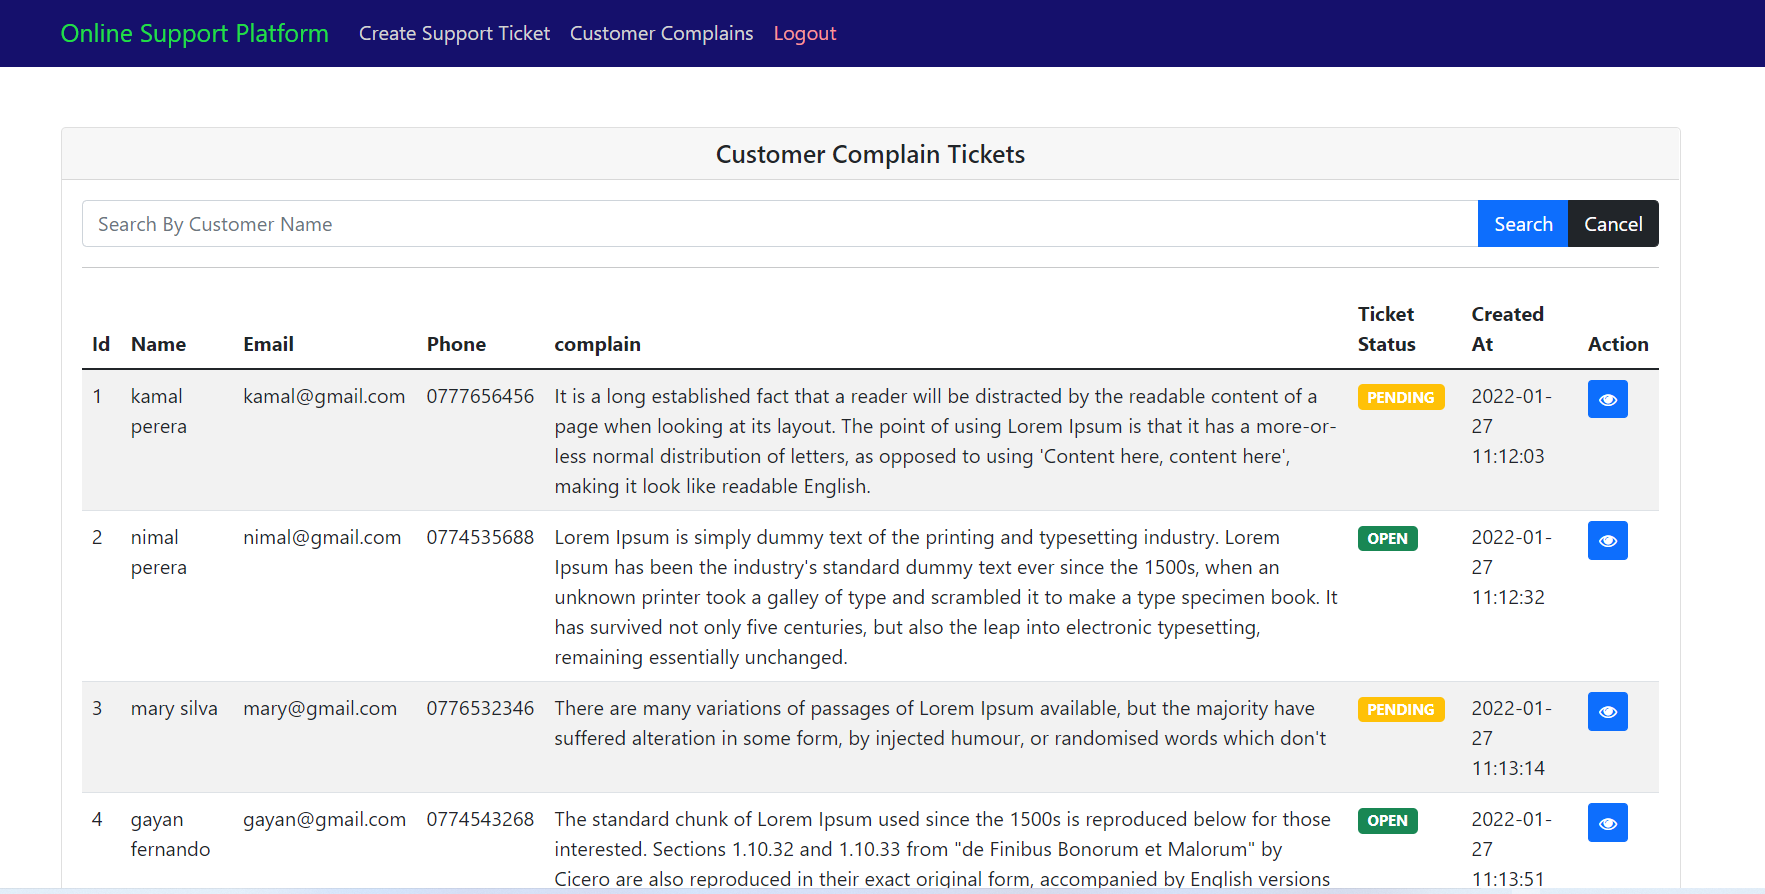
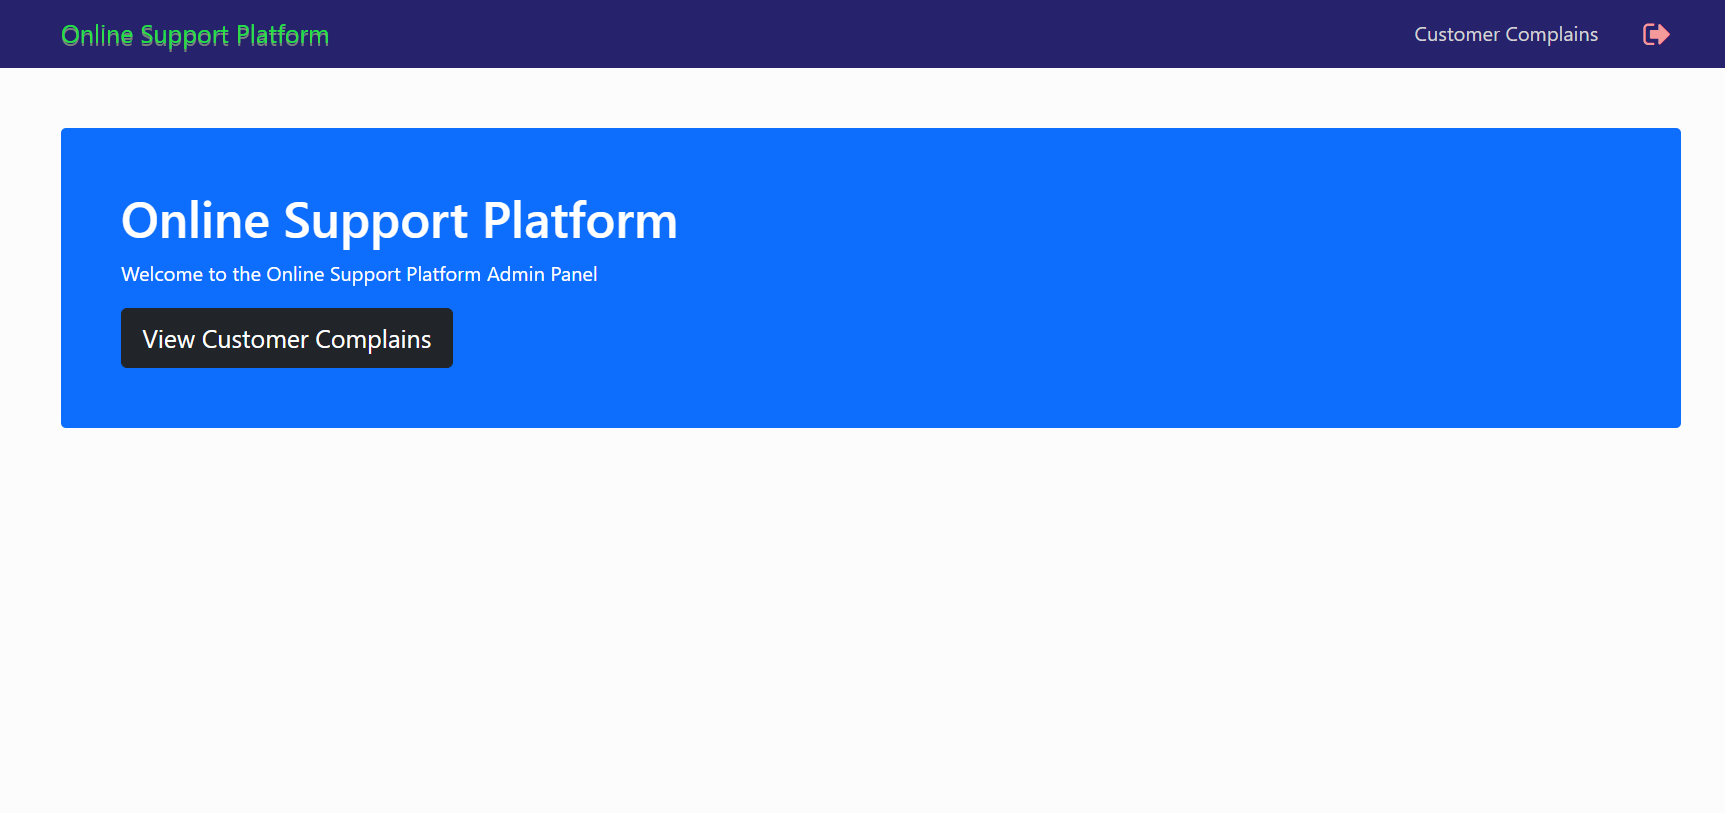
assignment

diff --git a/public/css/style.css b/public/css/style.css
@@ -48,3 +48,9 @@ nav.navbar.navbar-light {
     text-transform: UPPERCASE;
     font-size: 14px;
 }
+
+.notes {
+    font-size: 12px;
+    margin-top: 5px;
+    color: #747474;
+}

diff --git a/resources/views/complain_status.blade.php b/resources/views/complain_status.blade.php
@@ -6,8 +6,28 @@
             <div class="row justify-content-center">
                 <div class="col-md-6">
                     <div class="card">
-                            <h3 class="card-header text-center">Customer Complain Information</h3>
+                            <h3 class="card-header text-center">Check Complain Feedback</h3>
                             <div class="card-body">
+
+                                @if(empty($resDta) && $isSearch)
+
+                                    <div class="alert alert-danger" role="alert">
+                                        Result not found. Invalid key
+                                    </div>
+
+                                @endif
+
+                                <form action="{{ route('customer-complains-status') }}" method="GET">
+                                    <div class="input-group">
+                                        <input type="text" class="form-control" placeholder="Enter your complain key" name="q">
+                                        <button class="btn btn-primary" type="submit">Search</button>
+                                        <button class="btn btn-dark" onClick="location.href='{{ route('customer-complains-status') }}'" type="button">Cancel</button>
+                                    </div>
+                                </form>
+
+                                <hr />
+
+                                @if(isset($resDta) && !empty($resDta) && $isSearch)
 
                                 <table class="table table-striped">
                                     <thead>
@@ -28,11 +48,7 @@
                                             <td>{{ $resDta->customer_phone }}</td>
                                         </tr>
                                         <tr>
-                                            <th>Key</th>
-                                            <td>{{ $resDta->customer_key }}</td>
-                                        </tr>
-                                        <tr>
-                                            <th valign="top">Complain</th>
+                                            <th>complain</th>
                                             <td>{{ $resDta->customer_problem }}</td>
                                         </tr>
                                         <tr>
@@ -49,35 +65,14 @@
                                             <th>Created At</th>
                                             <td>{{ $resDta->created_at }}</td>
                                         </tr>
-                                        <tr>
-                                            <th colspan="2">
 
-                                                <form action="{{ route('customer-comment', $resDta->id) }}" method="POST">
-                                                    @csrf
-                                                    <div class="form-group mb-3">
-                                                        <textarea placeholder="Add comment here...." id="problem" class="form-control" name="agent_comment"></textarea>
-                                                        <div class="notes">Max 400 digits long</div>
-                                                        @if ($errors->has('agent_comment'))
-                                                            <span class="text-danger">{{ $errors->first('agent_comment') }}</span>
-                                                        @endif
-                                                    </div>
-
-                                                    <div class="d-grid mx-auto">
-                                                        <div class="btn-group special" role="group" aria-label="...">
-                                                            <a href="/complain" class="btn btn-dark m-2 btn-block">Back</a>
-                                                            <button type="submit" class="btn btn-success m-2 btn-block">Add Comment</button>
-                                                        </div>
-                                                    </div>
-
-                                                </form>
-
-                                            </th>
-                                        </tr>
                                     </thead>
                                     <tbody>
 
                                     </tbody>
                                 </table>
+
+                                @endif
 
                             </div>
                         </div>

diff --git a/resources/views/complain.blade.php b/resources/views/complain.blade.php
@@ -12,7 +12,7 @@
                                     <div class="input-group">
                                         <input type="text" class="form-control" placeholder="Search By Customer Name" name="q">
                                         <button class="btn btn-primary" type="submit">Search</button>
-                                        <button class="btn btn-dark" onClick="location.href='/complain'" type="button">Cancel</button>
+                                        <button class="btn btn-dark" onClick="location.href='{{ route('customer-complains') }}'" type="button">Cancel</button>
                                     </div>
                                 </form>
                                 <hr />
@@ -24,7 +24,7 @@
                                         <th>Name</th>
                                         <th>Email</th>
                                         <th>Phone</th>
-                                        <th>complain</th>
+                                        <th>Key</th>
                                         <th>Ticket Status</th>
                                         <th>Created At</th>
                                         <th>Action</th>
@@ -37,7 +37,7 @@
                                                 <td>{{ $dta->customer_name }}</td>
                                                 <td>{{ $dta->customer_email }}</td>
                                                 <td>{{ $dta->customer_phone }}</td>
-                                                <td width="280">{{ $dta->customer_problem }}</td>
+                                                <td>{{ $dta->customer_key }}</td>
                                                 <td align="center">
                                                     @if( $dta->status == "PENDING")
                                                     <span class="badge bg-warning">{{ $dta->status }}</span>
@@ -46,7 +46,7 @@
                                                     @endif
                                                 </td>
                                                 <td>{{ $dta->created_at }}</td>
-                                                <td>
+                                                <td align="center">
                                                     <a href="/customer/{{ $dta->id }}/complain" ><button data-bs-toggle="popover" data-bs-placement="left" data-bs-trigger="hover" data-bs-content="View Complain" class="btn btn-sm btn-primary"><i class="fa fa-eye"></i></button></a>
                                                 </td>
                                             </tr>

diff --git a/resources/views/ticket.blade.php b/resources/views/ticket.blade.php
@@ -4,7 +4,7 @@
     <main class="signup-form">
         <div class="container">
             <div class="row justify-content-center">
-                <div class="col-md-4">
+                <div class="col-md-5">
                     <div class="card">
                         <h3 class="card-header text-center">Support Ticket</h3>
                         <div class="card-body">
@@ -23,6 +23,7 @@
                                     @csrf
                                     <div class="form-group mb-3">
                                         <input type="text" placeholder="Full Name" id="name" class="form-control" name="customer_name">
+                                        <div class="notes">Max 20 digits long</div>
                                         @if ($errors->has('customer_name'))
                                             <span class="text-danger">{{ $errors->first('customer_name') }}</span>
                                         @endif
@@ -37,6 +38,7 @@
 
                                     <div class="form-group mb-3">
                                         <input type="text" placeholder="Phone Number" id="phone" class="form-control" name="customer_phone">
+                                        <div class="notes">10 digits mobile number</div>
                                         @if ($errors->has('customer_phone'))
                                             <span class="text-danger">{{ $errors->first('customer_phone') }}</span>
                                         @endif
@@ -44,6 +46,7 @@
 
                                     <div class="form-group mb-3">
                                         <textarea placeholder="Your Problem Description" id="problem" class="form-control" name="customer_problem"></textarea>
+                                        <div class="notes">Max 400 digits long</div>
                                         @if ($errors->has('customer_problem'))
                                             <span class="text-danger">{{ $errors->first('customer_problem') }}</span>
                                         @endif

diff --git a/resources/views/dashboard.blade.php b/resources/views/dashboard.blade.php
@@ -23,12 +23,16 @@
 
                 @if(!session()->exists('token-key'))
                     <li class="nav-item">
-                        <a class="nav-link" href="{{ route('login') }}">Agent Login</a>
-                    </li>
-                @endif
-                    <li class="nav-item">
                         <a class="nav-link" href="{{ route('ticket') }}">Create Support Ticket</a>
                     </li>
+                    <li class="nav-item">
+                        <a class="nav-link" href="{{ route('customer-complains-status') }}">Complain Feedback</a>
+                    </li>
+                    <li class="nav-item">
+                        <a data-bs-toggle="popover" data-bs-placement="bottom" data-bs-trigger="hover" data-bs-content="Agent Login" style="color: #b1f59a!important;" class="nav-link logout" href="{{ route('login') }}"><i class="fa fa-sign-in" aria-hidden="true"></i></a>
+                    </li>
+                @endif
+
                 @if(session()->exists('token-key'))
                     <li class="nav-item">
                         <a class="nav-link" href="{{ route('customer-complains') }}">Customer Complains</a>
@@ -50,6 +54,7 @@
             <div class="mt-4 p-5 bg-primary text-white rounded">
                 <h1>Online Support Platform</h1>
                 <p>Welcome to the Online Support Platform Admin Panel</p>
+                <a href="{{ route('customer-complains') }}" class="btn btn-dark btn-lg">View Customer Complains</a>
             </div>
         </div>
     </div>

diff --git a/app/Repository/Mysql/OnlineSupportPlatformRepository.php b/app/Repository/Mysql/OnlineSupportPlatformRepository.php
@@ -27,6 +27,7 @@ class OnlineSupportPlatformRepository implements OnlineSupportPlatformRepository
             $tickets->customer_email = $reqData['customer_email'];
             $tickets->customer_phone = $reqData['customer_phone'];
             $tickets->customer_problem = $reqData['customer_problem'];
+            $tickets->customer_key = "COM-OSP-".time();
             $tickets->created_at = Carbon::now()->format('Y-m-d H:i:s');
 
             return $tickets->save();
@@ -52,6 +53,28 @@ class OnlineSupportPlatformRepository implements OnlineSupportPlatformRepository
                    $query->where('customer_name', 'like', '%' . $keyword . '%');
                 }
              return $query->paginate(20);
+
+        }catch (\Exception $ex) {
+            Log::error("Error in query: ", (array)$ex);
+            throw $ex;
+        }
+    }
+
+    /**
+     * @param $keyword
+     * @return \Illuminate\Contracts\Pagination\LengthAwarePaginator|mixed
+     * @throws \Exception
+     */
+    public function complainStatus($keyword)
+    {
+        try{
+
+            $query = DB::table(Tickets::TABLE)
+                ->select('*');
+            if(!empty($keyword)){
+                $query->where('customer_key', '=', trim($keyword));
+            }
+            return $query->get()->first();
 
         }catch (\Exception $ex) {
             Log::error("Error in query: ", (array)$ex);

diff --git a/routes/web.php b/routes/web.php
@@ -30,6 +30,7 @@ Route::get('agent/logout', [LoginController::class, 'agentLogout'])->name('agent
 Route::get('dashboard', [OnlineSupportPlatformController::class, 'dashboard'])->name('dashboard');
 Route::get('ticket', [OnlineSupportPlatformController::class, 'ticket'])->name('ticket');
 Route::get('complain', [OnlineSupportPlatformController::class, 'complain'])->name('customer-complains');
+Route::get('complain/status', [OnlineSupportPlatformController::class, 'complainStatus'])->name('customer-complains-status');
 Route::get('customer/{id}/complain', [OnlineSupportPlatformController::class, 'complainInfo'])->name('customer-complain-info');
 Route::post('customer/{id}/comment', [OnlineSupportPlatformController::class, 'complainAddComment'])->name('customer-comment');
 Route::post('ticket/create', [OnlineSupportPlatformController::class, 'createTicket'])->name('create-ticket');

diff --git a/app/Http/Controllers/OnlineSupportPlatformController.php b/app/Http/Controllers/OnlineSupportPlatformController.php
@@ -42,6 +42,27 @@ class OnlineSupportPlatformController extends Controller
 
     /**
      * @param Request $request
+     * @return \Illuminate\Contracts\Foundation\Application|\Illuminate\Contracts\View\Factory|\Illuminate\Contracts\View\View
+     */
+    public function complainStatus(Request $request)
+    {
+        $resDta = [];
+        $isSearch = false;
+        $data = $request->all();
+        $keyword = (isset($data['q']))?$data['q']:'';
+
+        if(!empty($keyword)){
+            $isSearch = true;
+            $resDta = $this->onlineSupportPlatformUsecase->complainStatus($keyword);
+            return view('complain_status', compact('resDta','isSearch'));
+        }else{
+            return view('complain_status', compact('resDta','isSearch'));
+        }
+
+    }
+
+    /**
+     * @param Request $request
      * @param $id
      * @return mixed
      */

diff --git a/database/migrations/2022_01_27_000000_create_tickets_table.php b/database/migrations/2022_01_27_000000_create_tickets_table.php
@@ -15,11 +15,11 @@ class CreateTicketsTable extends Migration
     {
         Schema::create('tickets', function (Blueprint $table) {
             $table->increments('id');
-            $table->integer('agent_id')->unsigned()->default(0);
             $table->string('customer_name');
             $table->string('customer_email');
             $table->string('customer_phone');
             $table->text('customer_problem');
+            $table->text('customer_key');
             $table->text('agent_comment')->default("");
             $table->string('status')->default("PENDING");
             $table->dateTime('created_at');

diff --git a/app/Usecase/OnlineSupportPlatformUsecase.php b/app/Usecase/OnlineSupportPlatformUsecase.php
@@ -44,6 +44,15 @@ class OnlineSupportPlatformUsecase
     }
 
     /**
+     * @param $keyword
+     * @return mixed
+     */
+    public function complainStatus($keyword)
+    {
+        return $this->OnlineSupportPlatformRepository->complainStatus($keyword);
+    }
+
+    /**
      * @param $id
      * @return mixed
      */

diff --git a/app/Repository/Contracts/OnlineSupportPlatformRepositoryInterface.php b/app/Repository/Contracts/OnlineSupportPlatformRepositoryInterface.php
@@ -21,6 +21,12 @@ interface OnlineSupportPlatformRepositoryInterface
     public function listComplains($keyword);
 
     /**
+     * @param $keyword
+     * @return mixed
+     */
+    public function complainStatus($keyword);
+
+    /**
      * @param $id
      * @return mixed
      */

diff --git a/README.md b/README.md
@@ -61,3 +61,5 @@ Password: admin@123
 ![alt text](3.png)
 
 ![alt text](4.png)
+
+![alt text](5.png)
